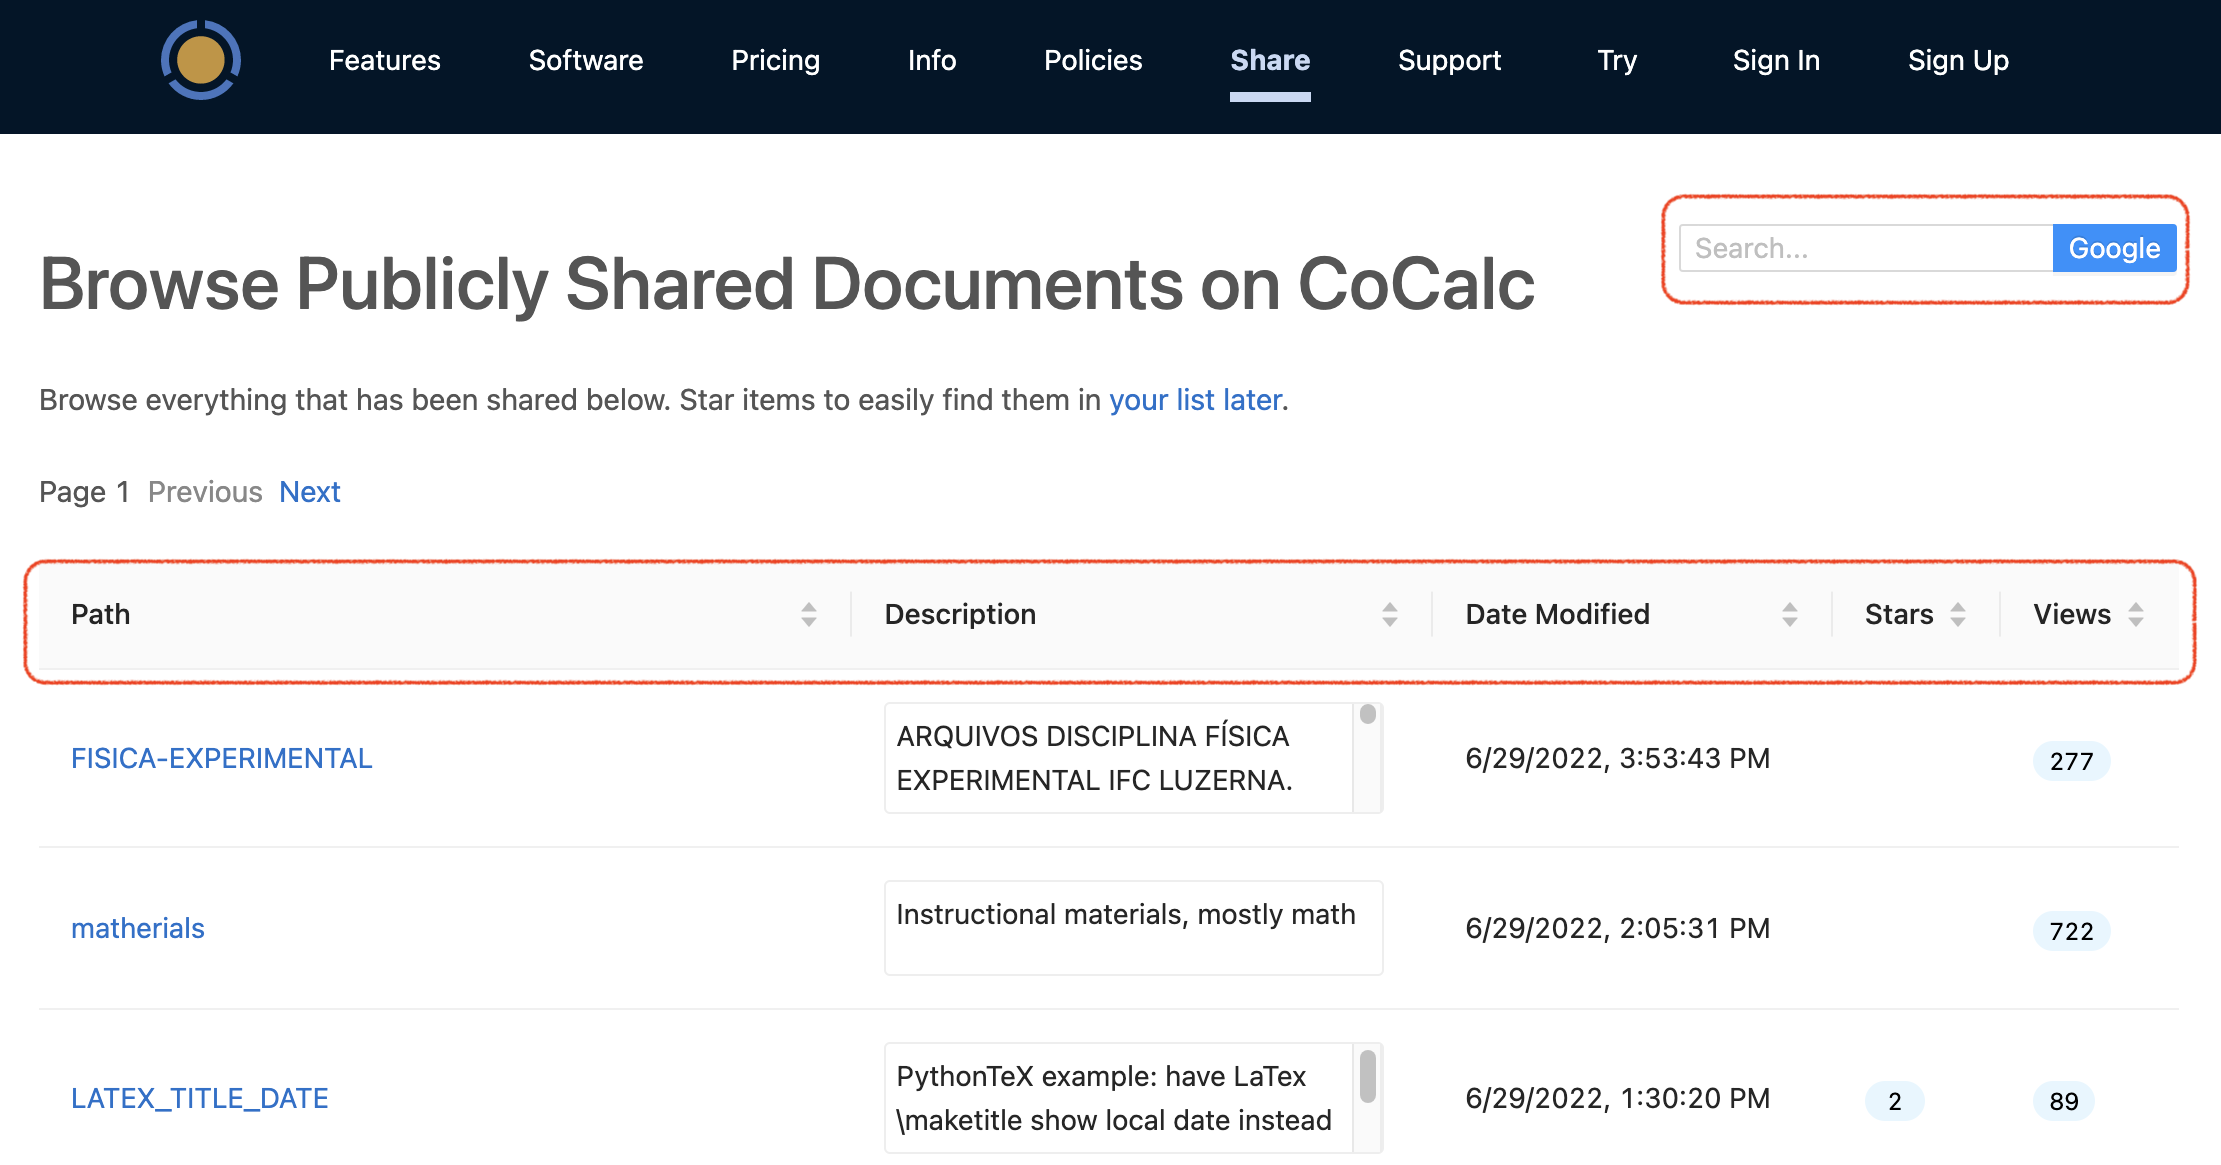
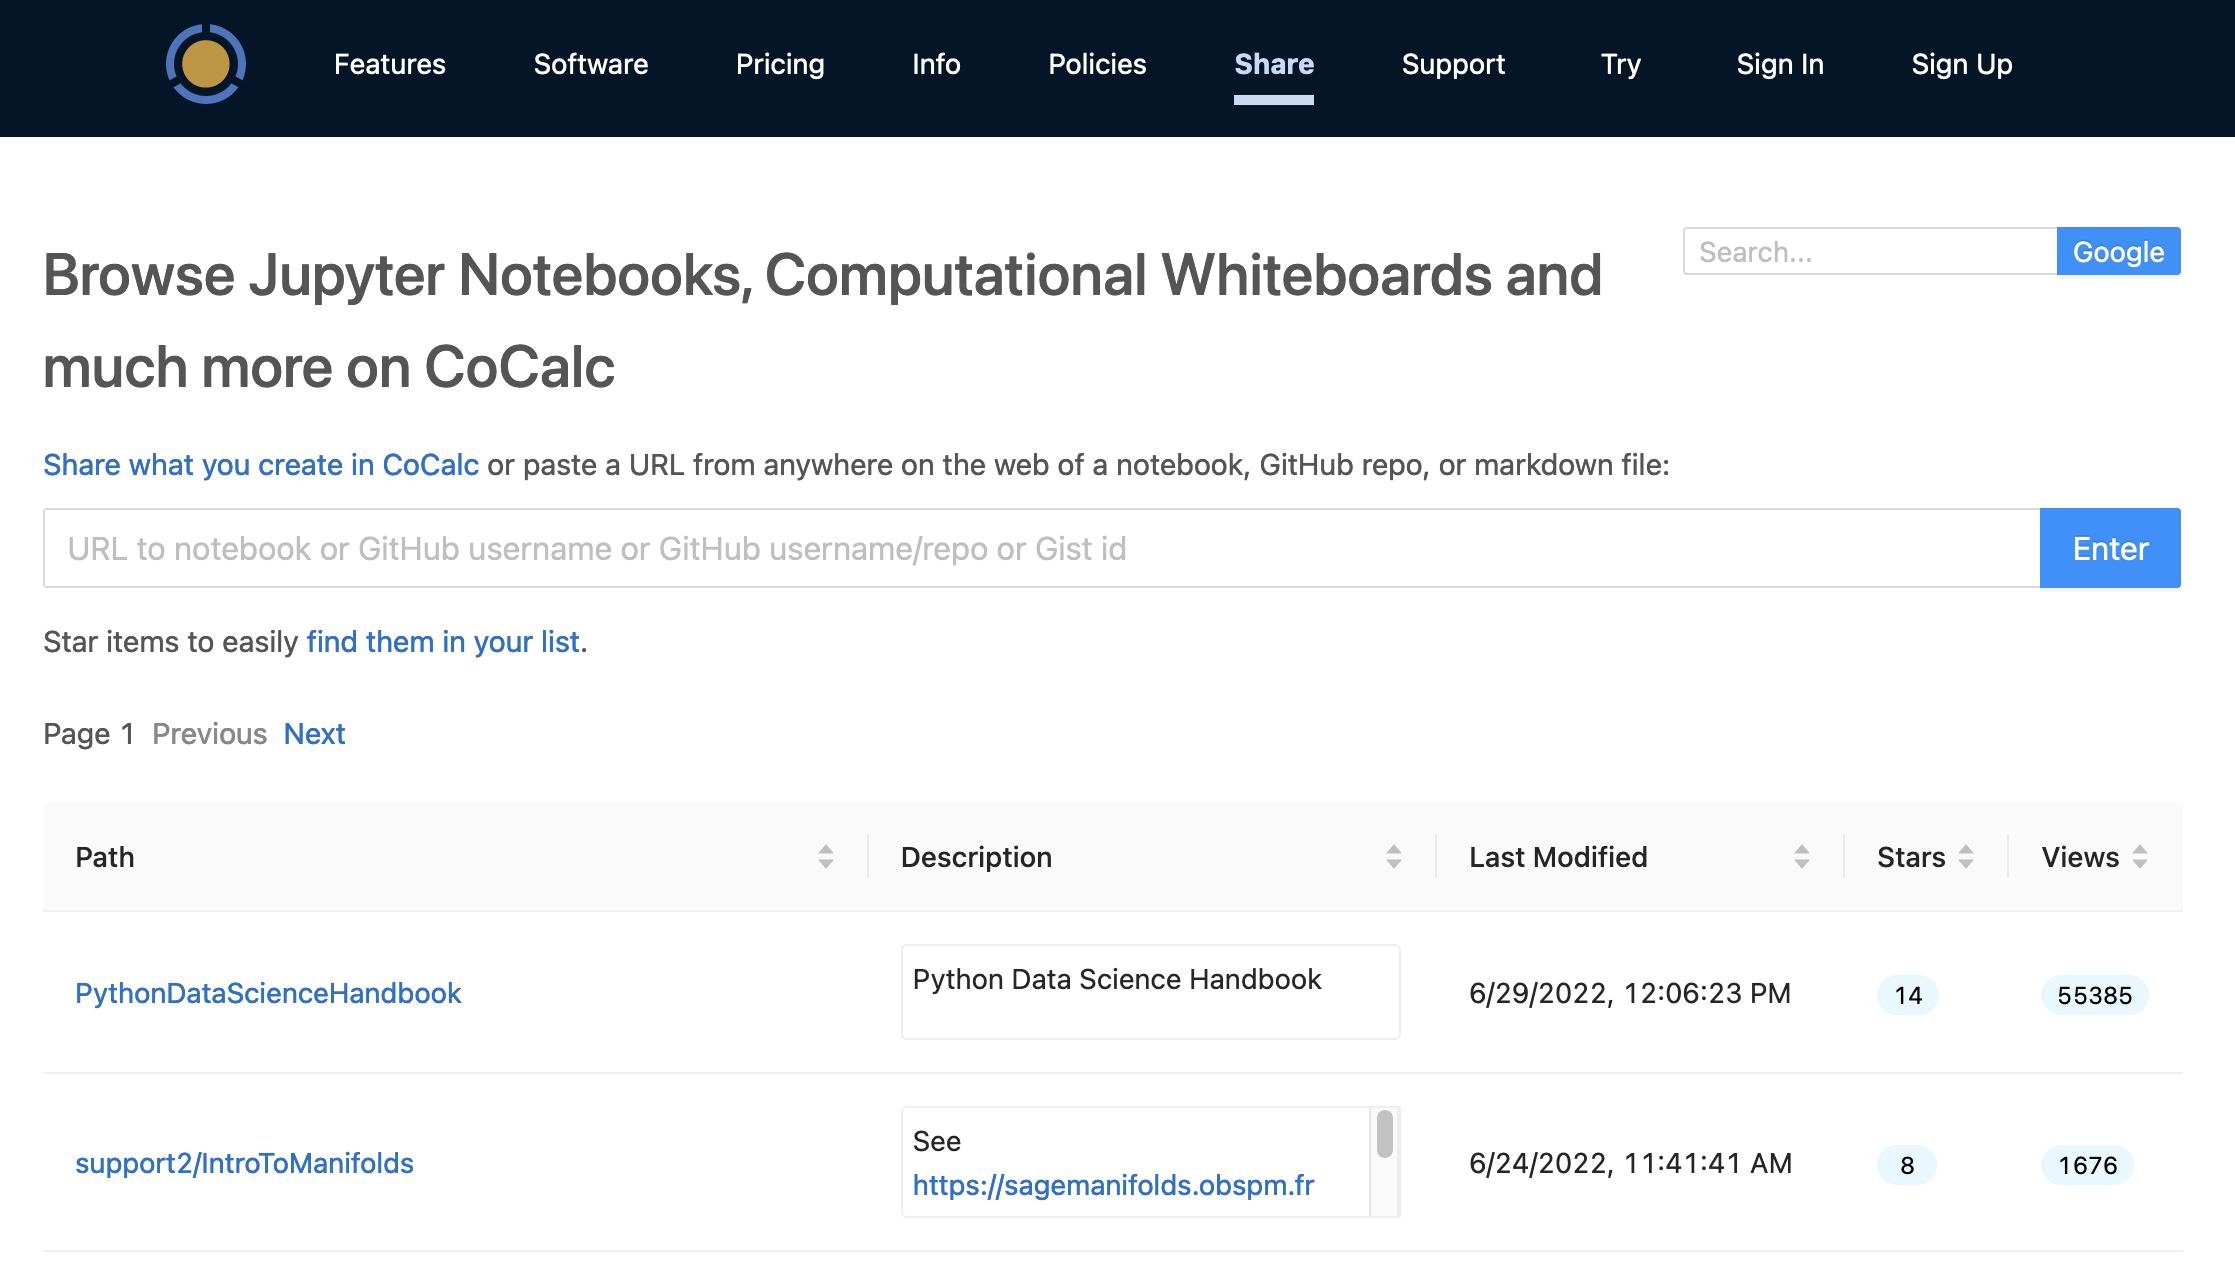
share urls

diff --git a/source/share.rst b/source/share.rst
@@ -20,6 +20,10 @@ Viewing Files on the Share Server
 
 To see CoCalc files that people have shared, browse to https://cocalc.com/share. You can search for text in the title and contents of shared files using the search box at upper right. You can sort the list of files by any of the columns listed, in increasing or decreasing order, by clicking in the column headings.
 
+.. note::
+
+    For your convenience, note the input box at the top of the browsable documents list: "Share what you create in CoCalc or paste a URL from anywhere on the web of a notebook, GitHub repo, or markdown file".
+
 .. figure:: img/share-home-page.png
      :width: 90%
      :align: center
